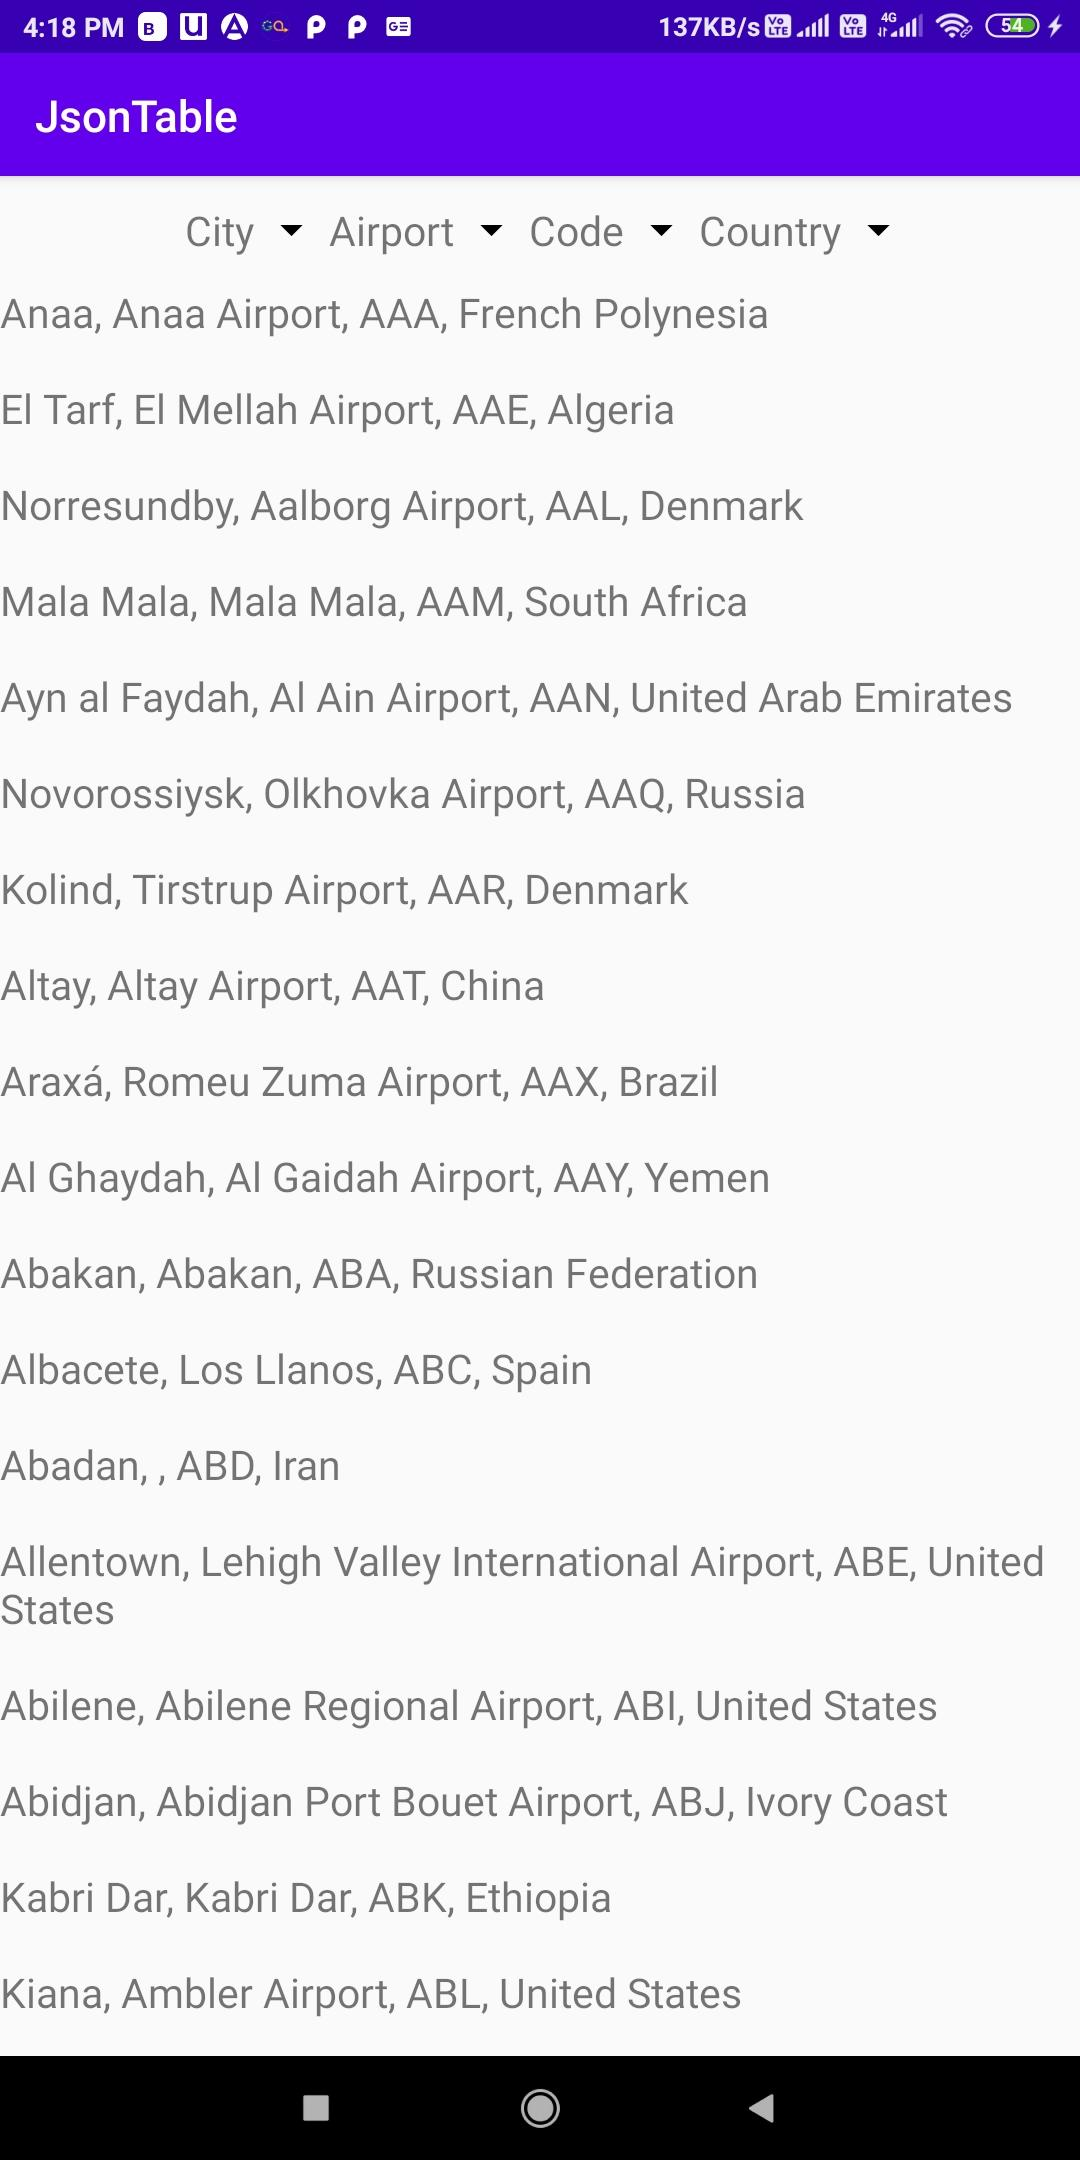
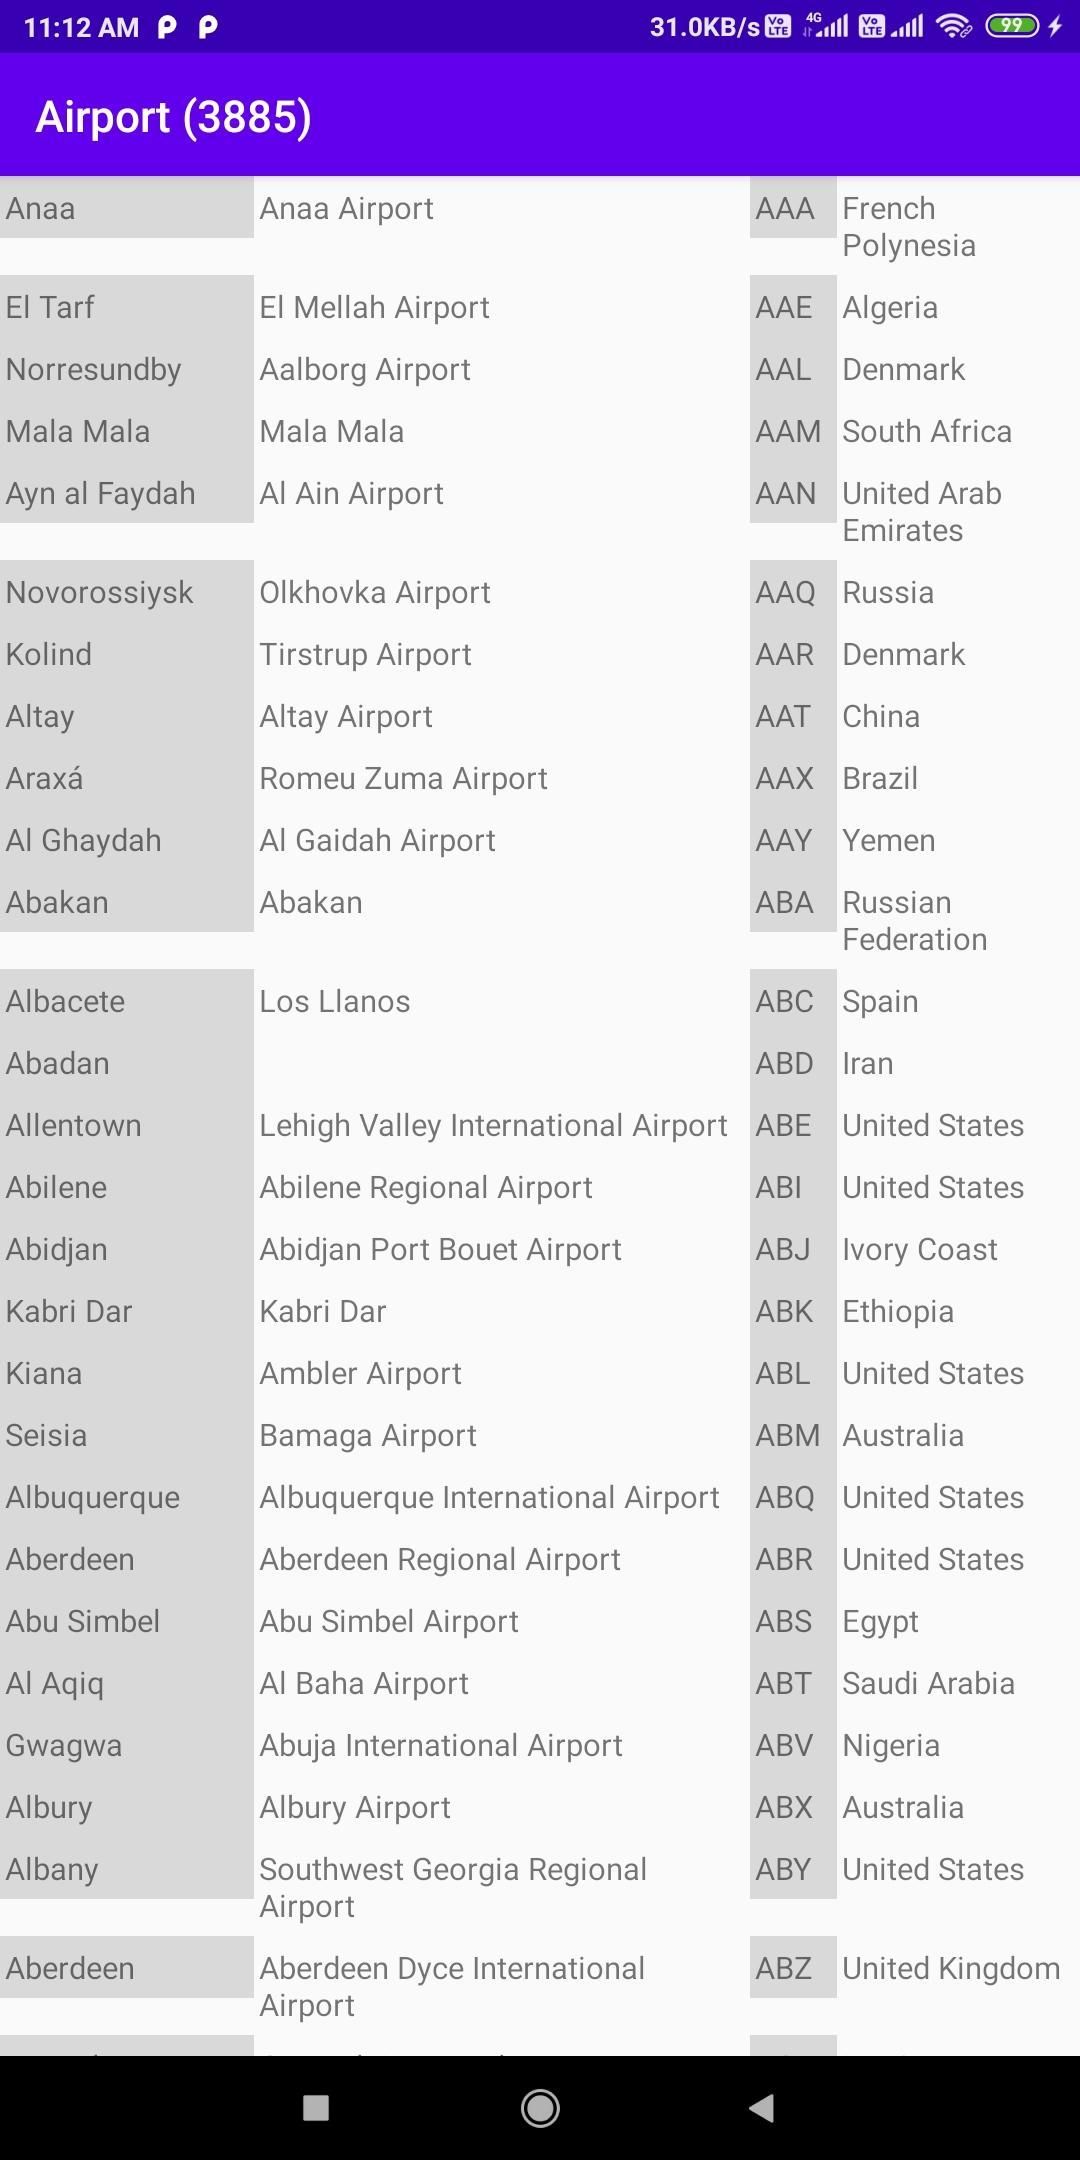
add table with 4 colm

diff --git a/app/src/main/java/com/example/jsontable/MainActivity.java b/app/src/main/java/com/example/jsontable/MainActivity.java
@@ -1,11 +1,22 @@
 package com.example.jsontable;
 
+import android.app.ProgressDialog;
+import android.graphics.Color;
 import android.os.Bundle;
+import android.text.Layout;
+import android.text.TextUtils;
+import android.util.TypedValue;
+import android.view.Gravity;
 import android.view.View;
 import android.widget.Button;
+import android.widget.LinearLayout;
+import android.widget.ProgressBar;
+import android.widget.TableLayout;
+import android.widget.TableRow;
 import android.widget.TextView;
 
 import androidx.appcompat.app.AppCompatActivity;
+import androidx.constraintlayout.widget.ConstraintLayout;
 
 import com.android.volley.Request;
 import com.android.volley.RequestQueue;
@@ -19,14 +30,20 @@ import org.json.JSONException;
 import org.json.JSONObject;
 
 public class MainActivity extends AppCompatActivity {
-    private TextView mTextViewResult;
+    private TableLayout tableLayout;
     private RequestQueue mQueue;
+    private ProgressDialog mProgressBar;
+
     @Override
     protected void onCreate(Bundle savedInstanceState) {
         super.onCreate(savedInstanceState);
         setContentView(R.layout.activity_main);
-        mTextViewResult = findViewById(R.id.text_view_result);
+
         Button buttonParse = findViewById(R.id.button_parse);
+        tableLayout = findViewById(R.id.table);
+        tableLayout.setStretchAllColumns(true);
+        mProgressBar = new ProgressDialog(this);
+
         mQueue = Volley.newRequestQueue(this);
         buttonParse.setOnClickListener(new View.OnClickListener() {
             @Override
@@ -35,24 +52,42 @@ public class MainActivity extends AppCompatActivity {
             }
         });
     }
+
     private void jsonParse() {
+        mProgressBar.setCancelable(false);
+        mProgressBar.setMessage("Fetching Data...");
+        mProgressBar.setProgressStyle(ProgressDialog.STYLE_SPINNER);
+        mProgressBar.show();
+
+        int leftRowMargin=0;
+        int topRowMargin=0;
+        int rightRowMargin=0;
+        int bottomRowMargin = 0;
+        int textSize = 0, smallTextSize =0, mediumTextSize = 0;
+        textSize = (int) getResources().getDimension(R.dimen.font_size_verysmall);
+        smallTextSize = (int) getResources().getDimension(R.dimen.font_size_small);
+        mediumTextSize = (int) getResources().getDimension(R.dimen.font_size_medium);
+
         String url = "https://gist.githubusercontent.com/tdreyno/4278655/raw/7b0762c09b519f40397e4c3e100b097d861f5588/airports.json";
         JsonArrayRequest request = new JsonArrayRequest(Request.Method.GET, url, null,
                 new Response.Listener<JSONArray>() {
                     @Override
                     public void onResponse(JSONArray response) {
                         try {
+                            getSupportActionBar().setTitle("Airport (" + String.valueOf(response.length() + ")"));
+                            tableLayout.removeAllViews();
                             for (int i = 0; i < response.length(); i++) {
                                 JSONObject employee = response.getJSONObject(i);
                                 String city = employee.getString("city");
                                 String airport = employee.getString("name");
                                 String code = employee.getString("code");
                                 String country = employee.getString("country");
-                                mTextViewResult.append(city + ", " + airport + ", " + code + ", " + country + "\n\n");
+                                createTable(city, airport, code, country, i);
                             }
                         } catch (JSONException e) {
                             e.printStackTrace();
                         }
+                        mProgressBar.hide();
                     }
                 }, new Response.ErrorListener() {
             @Override
@@ -61,5 +96,56 @@ public class MainActivity extends AppCompatActivity {
             }
         });
         mQueue.add(request);
+    }
+
+    private void createTable(String city, String airport, String code, String country, int i) {
+        TableRow tableRow = new TableRow(this);
+        TableRow.LayoutParams lp = new TableRow.LayoutParams(TableRow.LayoutParams.MATCH_PARENT, TableRow.LayoutParams.WRAP_CONTENT);
+        tableRow.setLayoutParams(lp);
+
+        TextView textViewCity = new TextView(this);
+        TextView textViewAirport = new TextView(this);
+        TextView textViewCode = new TextView(this);
+        TextView textViewCountry = new TextView(this);
+
+        textViewCity.setLayoutParams(new TableRow.LayoutParams(TableRow.LayoutParams.WRAP_CONTENT, TableRow.LayoutParams.WRAP_CONTENT,1));
+        textViewAirport.setLayoutParams(new TableRow.LayoutParams(TableRow.LayoutParams.WRAP_CONTENT, TableRow.LayoutParams.WRAP_CONTENT,1));
+        textViewCode.setLayoutParams(new TableRow.LayoutParams(TableRow.LayoutParams.WRAP_CONTENT, TableRow.LayoutParams.WRAP_CONTENT,0));
+        textViewCountry.setLayoutParams(new TableRow.LayoutParams(TableRow.LayoutParams.WRAP_CONTENT, TableRow.LayoutParams.WRAP_CONTENT,1));
+
+        textViewAirport.setGravity(Gravity.TOP);
+        textViewCity.setGravity(Gravity.TOP);
+        textViewCode.setGravity(Gravity.TOP);
+        textViewCountry.setGravity(Gravity.TOP);
+
+        textViewCity.setMaxLines(4);
+        textViewAirport.setMaxLines(4);
+        textViewCountry.setMaxLines(3);
+
+        textViewCity.setPadding(5, 10, 5, 10);
+        textViewAirport.setPadding(5, 10, 5, 10);
+        textViewCode.setPadding(5, 10, 5, 10);
+        textViewCountry.setPadding(5, 10, 5, 10);
+
+
+        textViewCity.setText(city);
+        textViewAirport.setText(airport);
+        textViewCode.setText(code);
+        textViewCountry.setText(country);
+
+        textViewCity.setBackgroundColor(Color.parseColor("#d9d9d9"));
+        textViewCode.setBackgroundColor(Color.parseColor("#d9d9d9"));
+
+        tableRow.addView(textViewCity);
+        tableRow.addView(textViewAirport);
+        tableRow.addView(textViewCode);
+        tableRow.addView(textViewCountry);
+
+
+        tableLayout.addView(tableRow, i);
+    }
+
+    private void setLayout(TextView textView) {
+        ;
     }
 }
